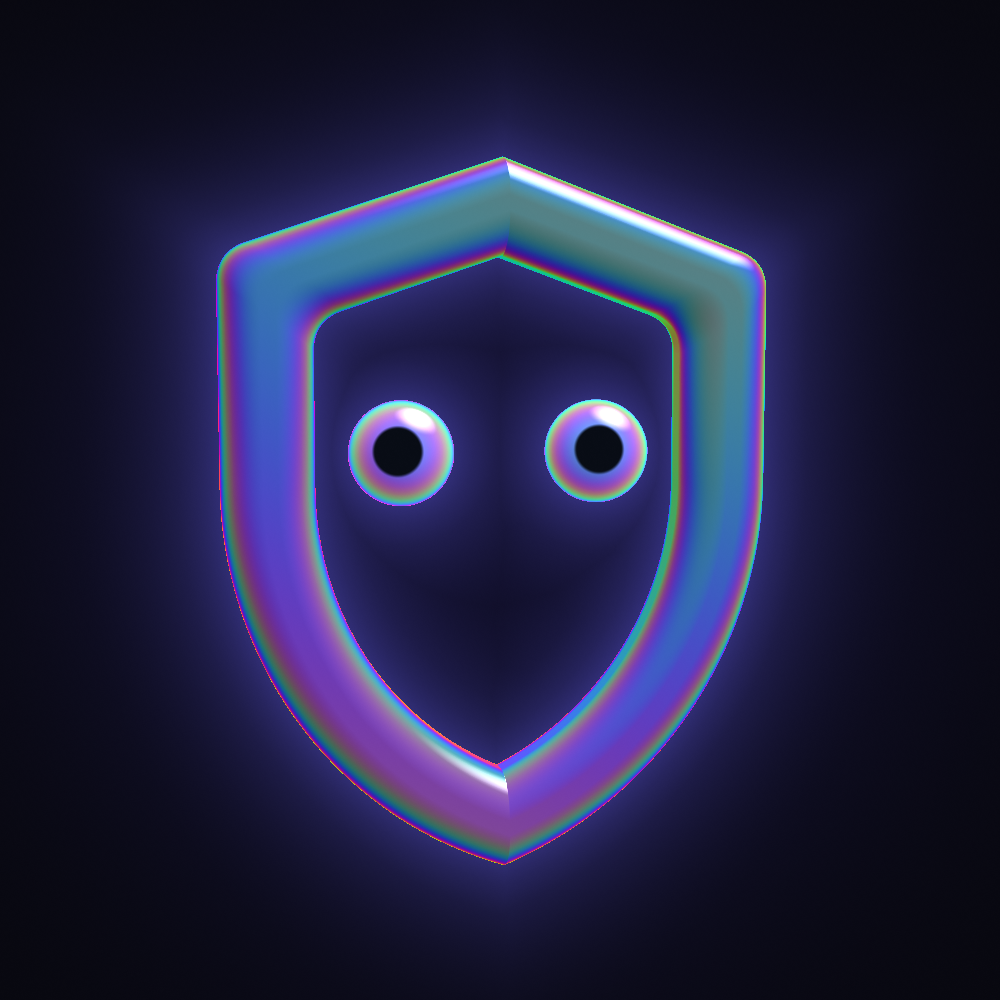
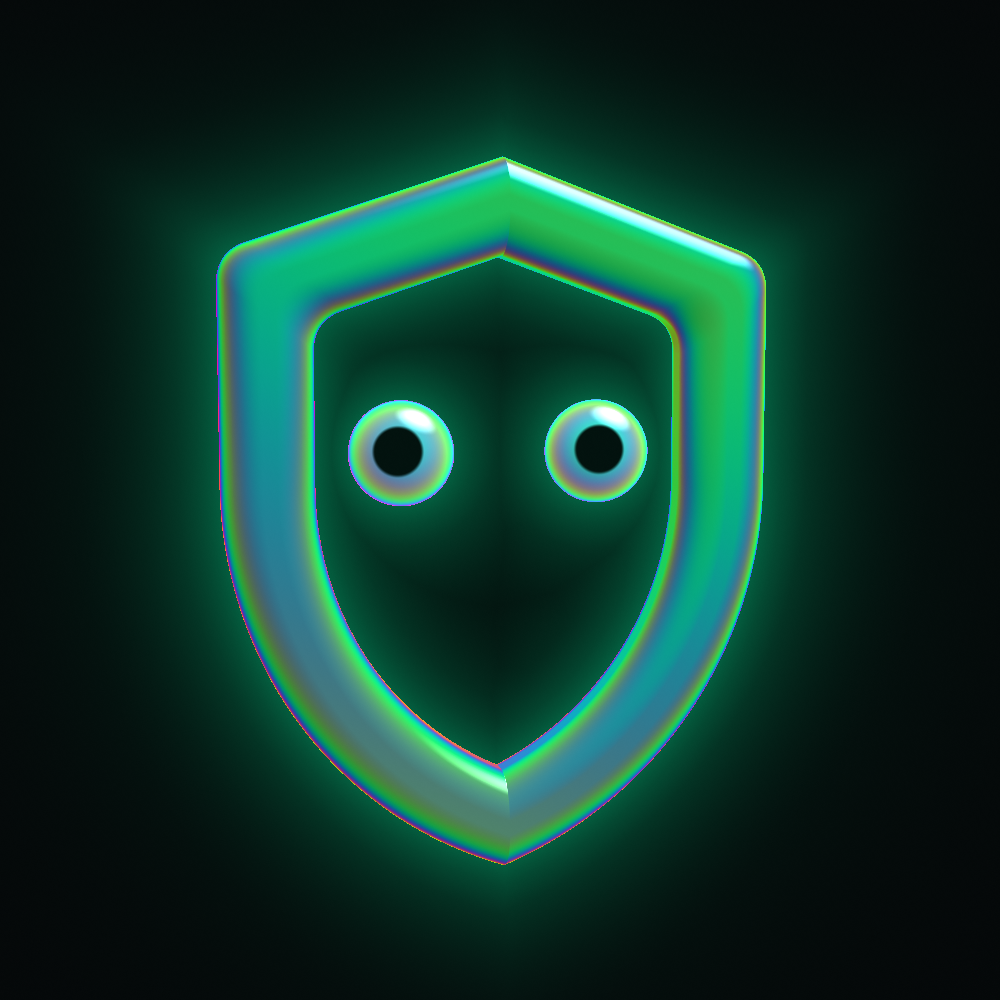
Go back to neon green, and smooth out the owner's and agent's paths
Shurik preferred green to indigo. Adds Sign out, drops demo-only labels outside
the demo, says what to do with a bad agent credential, and stops the README
promising a phone link that nothing sends. Software graphics, as on CI, now get
one still frame, because the shader starved the page there.

diff --git a/apps/web/src/styles.css b/apps/web/src/styles.css
@@ -1,27 +1,27 @@
-/* Wardy Agent's look: a midnight console with one indigo glass shield. Colours are tokens, and motion is transform and opacity only. */
+/* Wardy Agent's look: a near-black console with one neon green glass shield. Colours are tokens, and motion is transform and opacity only. */
 :root {
   color-scheme: dark;
-  --ground: #08080f;
-  --surface: rgba(16, 16, 28, 0.88);
-  --surface-solid: #10101c;
-  --ink: #f3f3fa;
-  --ink-soft: #1e1e32;
-  --muted: #b0b0c8;
-  --line: #2b2b44;
+  --ground: #050809;
+  --surface: rgba(12, 18, 19, 0.88);
+  --surface-solid: #0c1213;
+  --ink: #f1f5f2;
+  --ink-soft: #1a2223;
+  --muted: #a8b4b0;
+  --line: #263234;
   --grid: rgba(255, 255, 255, 0.04);
-  --hover: #1e1e32;
-  --accent: #8b9cff;
-  --accent-glow: rgba(139, 156, 255, 0.3);
-  --allow-bg: #1c2356;
-  --allow-fg: #aab7ff;
+  --hover: #1a2223;
+  --accent: #00f29b;
+  --accent-glow: rgba(0, 242, 155, 0.3);
+  --allow-bg: #0a3a2a;
+  --allow-fg: #3df2b0;
   --hold-bg: #3a2a08;
   --hold-fg: #f7cb6f;
   --block-bg: #c2410c;
   --block-fg: #ffffff;
   --danger-text: #ff9068;
   --on-block: #a8370a;
-  --on-ink: #08080f;
-  --on-accent-muted: #1b1f4e;
+  --on-ink: #050809;
+  --on-accent-muted: #0f3f2d;
   --head: "Space Grotesk Variable", system-ui, sans-serif;
   --body: "Inter Variable", system-ui, sans-serif;
   --code: "JetBrains Mono Variable", ui-monospace, monospace;
@@ -36,7 +36,7 @@ html { -webkit-text-size-adjust: 100%; background: var(--ground); }
 body { margin: 0; color: var(--ink); font: 400 15px/1.55 var(--body); -webkit-font-smoothing: antialiased; }
 
 /* The animated background. The CSS glow is what shows if WebGL isn't available. */
-.backdrop { position: fixed; inset: 0; z-index: -1; overflow: hidden; pointer-events: none; background: radial-gradient(ellipse 60% 55% at 70% 42%, rgba(110, 100, 255, 0.2), transparent 70%), var(--ground); }
+.backdrop { position: fixed; inset: 0; z-index: -1; overflow: hidden; pointer-events: none; background: radial-gradient(ellipse 60% 55% at 70% 42%, rgba(0, 242, 155, 0.16), transparent 70%), var(--ground); }
 .backdrop-canvas { position: absolute; inset: 0; width: 100%; height: 100%; display: block; }
 .backdrop-veil { position: absolute; inset: 0; background: var(--ground); opacity: 0; }
 .backdrop-toggle { position: fixed; right: 10px; bottom: 6px; z-index: 5; min-height: 44px; padding: 0 12px; border: 1px solid var(--line); border-radius: var(--radius-button); background: var(--surface-solid); font: 500 11px var(--code); letter-spacing: 0.04em; text-transform: uppercase; color: var(--muted); cursor: pointer; }
@@ -54,7 +54,7 @@ button { font: inherit; color: inherit; }
 .small { font-size: 13px; }
 
 /* Header */
-.header { position: sticky; top: 0; z-index: 20; background: rgba(8, 8, 15, 0.62); -webkit-backdrop-filter: blur(14px); backdrop-filter: blur(14px); border-bottom: 1px solid var(--line); }
+.header { position: sticky; top: 0; z-index: 20; background: rgba(5, 8, 9, 0.62); -webkit-backdrop-filter: blur(14px); backdrop-filter: blur(14px); border-bottom: 1px solid var(--line); }
 .header-inner { max-width: 1280px; margin: 0 auto; padding: 12px var(--gutter); display: grid; grid-template-columns: auto 1fr auto; align-items: center; column-gap: 28px; row-gap: 8px; }
 .brand { display: flex; align-items: center; gap: 11px; text-decoration: none; min-height: 44px; }
 .brand-name { font: 500 17px/1.1 var(--head); letter-spacing: -0.015em; white-space: nowrap; }
@@ -76,7 +76,7 @@ button { font: inherit; color: inherit; }
 .btn:disabled { opacity: 0.5; cursor: default; }
 .btn-primary { background: var(--ink); color: var(--on-ink); }
 .btn-primary:hover:not(:disabled) { background: var(--accent); box-shadow: 0 0 28px var(--accent-glow); }
-.btn-secondary { background: var(--surface-solid); border-color: #40405e; color: var(--ink); }
+.btn-secondary { background: var(--surface-solid); border-color: #3b4a4c; color: var(--ink); }
 .btn-secondary:hover:not(:disabled) { background: var(--hover); border-color: var(--accent); }
 .btn-freeze { background: none; border-color: var(--line); color: var(--ink); }
 .btn-freeze:hover:not(:disabled) { background: var(--block-bg); border-color: var(--block-bg); color: var(--block-fg); }
@@ -102,10 +102,10 @@ h2.section-title { font: 400 24px/1.25 var(--head); letter-spacing: -0.015em; }
 .hero { display: flex; align-items: center; min-height: clamp(520px, 82dvh, 900px); padding: 48px 0; }
 .hero-text { min-width: 0; max-width: 660px; }
 .hero-top { display: flex; align-items: center; gap: 12px; min-height: 26px; margin-bottom: 18px; }
-.hero-title { font: 500 clamp(40px, 22px + 3.4vw, 74px)/1.03 var(--head); letter-spacing: -0.035em; text-shadow: 0 2px 30px rgba(8, 8, 15, 0.7); }
-.hero-lead { max-width: 560px; margin-top: 22px; color: var(--ink); font-size: 18px; text-shadow: 0 1px 14px rgba(8, 8, 15, 0.9); }
+.hero-title { font: 500 clamp(40px, 22px + 3.4vw, 74px)/1.03 var(--head); letter-spacing: -0.035em; text-shadow: 0 2px 30px rgba(5, 8, 9, 0.7); }
+.hero-lead { max-width: 560px; margin-top: 22px; color: var(--ink); font-size: 18px; text-shadow: 0 1px 14px rgba(5, 8, 9, 0.9); }
 .hero-actions { margin-top: 30px; display: flex; flex-wrap: wrap; align-items: center; gap: 10px; }
-.hero-note { margin-top: 14px; color: var(--ink); text-shadow: 0 1px 14px rgba(8, 8, 15, 0.9); }
+.hero-note { margin-top: 14px; color: var(--ink); text-shadow: 0 1px 14px rgba(5, 8, 9, 0.9); }
 .hero-top, .hero-title, .hero-lead, .hero-actions, .hero-note { animation: rise 700ms var(--ease) both; }
 .hero-title { animation-delay: 60ms; }
 .hero-lead { animation-delay: 160ms; }
@@ -291,7 +291,7 @@ details > summary:hover { color: var(--ink); }
 
 /* Approve page */
 /* Someone is deciding about money here, so this page's background keeps still: the same look, with nothing moving. */
-.approve { min-height: 100dvh; display: flex; flex-direction: column; background: radial-gradient(ellipse 90% 40% at 50% 0%, rgba(110, 100, 255, 0.2), transparent 75%), var(--ground); }
+.approve { min-height: 100dvh; display: flex; flex-direction: column; background: radial-gradient(ellipse 90% 40% at 50% 0%, rgba(0, 242, 155, 0.14), transparent 75%), var(--ground); }
 .approve-head { display: flex; align-items: center; justify-content: center; gap: 10px; padding: 16px; border-bottom: 1px solid var(--line); font: 500 16px/1 var(--head); letter-spacing: -0.015em; }
 .approve-main { flex: 1; width: 100%; max-width: 460px; margin: 0 auto; padding: 18px 16px calc(24px + env(safe-area-inset-bottom)); display: flex; flex-direction: column; gap: 14px; }
 .approve-card { padding: 22px 20px; }
@@ -305,9 +305,9 @@ details > summary:hover { color: var(--ink); }
 .approve-result-title { margin-top: 14px; font: 500 24px/1.15 var(--head); letter-spacing: -0.02em; }
 
 /* Sign in */
-.signin-stage { min-height: calc(100dvh - 72px); display: flex; flex-direction: column; align-items: center; justify-content: center; gap: 24px; padding-top: 32px; }
-.signin-title { font: 400 clamp(44px, 24px + 5vw, 88px)/1.02 var(--head); letter-spacing: -0.035em; text-align: center; text-shadow: 0 2px 30px rgba(8, 8, 15, 0.8); }
-.signin { width: 100%; max-width: 460px; background: rgba(12, 12, 22, 0.72); -webkit-backdrop-filter: blur(18px); backdrop-filter: blur(18px); box-shadow: 0 0 60px rgba(110, 100, 255, 0.14); }
+.signin-stage { min-height: calc(100dvh - 72px); display: flex; flex-direction: column; align-items: flex-start; justify-content: center; gap: 24px; padding-top: 32px; }
+.signin-title { font: 500 clamp(40px, 22px + 3.4vw, 74px)/1.03 var(--head); letter-spacing: -0.035em; text-shadow: 0 2px 30px rgba(5, 8, 9, 0.8); }
+.signin { width: 100%; max-width: 460px; background: rgba(8, 13, 14, 0.72); -webkit-backdrop-filter: blur(18px); backdrop-filter: blur(18px); box-shadow: 0 0 60px rgba(0, 242, 155, 0.12); }
 .signin form { display: grid; gap: 10px; margin-top: 16px; }
 
 /* The tabs come first: the owner's id gives up its space before they get cut off. */

diff --git a/scripts/render-x-images.ts b/scripts/render-x-images.ts
@@ -5,8 +5,8 @@ import { existsSync, mkdirSync, rmSync, writeFileSync } from "node:fs";
 import { resolve } from "node:path";
 import { pathToFileURL } from "node:url";
 import puppeteer from "puppeteer-core";
-import { FRAGMENT_SHADER, VERTEX_SHADER } from "../apps/web/src/lib/backdrop";
-import { dots, funnel } from "../apps/web/src/lib/stream";
+import { FRAGMENT_SHADER, VERTEX_SHADER } from "../apps/web/src/lib/backdrop.js";
+import { dots, funnel } from "../apps/web/src/lib/stream.js";
 
 const CHROME_PLACES = ["/Applications/Google Chrome.app/Contents/MacOS/Google Chrome", "/usr/bin/google-chrome", "/usr/bin/chromium"];
 const chrome = process.env.CHROME_PATH || CHROME_PLACES.find((place) => existsSync(place));
@@ -25,9 +25,9 @@ function page(width: number, height: number, zoom: number, shift: number, overla
   return `<!doctype html><meta charset="utf-8"><style>
     @font-face { font-family: Head; src: url("${font("space-grotesk")}"); font-weight: 300 700; }
     @font-face { font-family: Code; src: url("${font("jetbrains-mono")}"); font-weight: 100 800; }
-    html, body { margin: 0; width: ${width}px; height: ${height}px; overflow: hidden; background: #08080f; }
+    html, body { margin: 0; width: ${width}px; height: ${height}px; overflow: hidden; background: #050809; }
     canvas { position: absolute; inset: 0; width: 100%; height: 100%; }
-    .text { position: absolute; color: #f3f3fa; font-family: Head; }
+    .text { position: absolute; color: #f1f5f2; font-family: Head; }
   </style>
   <canvas id="glass"></canvas><canvas id="flow"></canvas>${overlay}
   <script>
@@ -48,7 +48,7 @@ function page(width: number, height: number, zoom: number, shift: number, overla
     gl.uniform1f(u("uTime"), ${STILL_TIME});
     gl.uniform2f(u("uLook"), 0, 0);
     gl.uniform1f(u("uPulse"), 0);
-    gl.uniform3f(u("uPulseColor"), 0.55, 0.61, 1);
+    gl.uniform3f(u("uPulseColor"), 0, 0.95, 0.61);
     gl.uniform1f(u("uShift"), ${shift});
     gl.viewport(0, 0, canvas.width, canvas.height);
     gl.drawArrays(gl.TRIANGLES, 0, 3);
@@ -78,7 +78,7 @@ function bannerFlow(width: number, height: number, gateX: number): string {
     context.scale(2, 2);
     for (const r of ${JSON.stringify(rects)}) {
       context.globalAlpha = r.alpha * (r.checked ? 0.8 : 0.34);
-      context.fillStyle = r.checked ? "#8b9cff" : "#c9c9de";
+      context.fillStyle = r.checked ? "#00f29b" : "#c6d2cd";
       context.fillRect(r.x - r.size, r.y - r.size, r.size * 2, r.size * 2);
     }
     context.fillStyle = "#ff5a1f";
@@ -94,11 +94,11 @@ function bannerFlow(width: number, height: number, gateX: number): string {
 const BANNER = { width: 1500, height: 500, gateX: 1225, zoom: 0.87 };
 // X's profile picture covers the banner's lower left, up to about x = 375, so the words start after it.
 const bannerText = `
-  <div style="position:absolute; left:320px; top:0; width:700px; height:500px; background:radial-gradient(closest-side, rgba(8,8,15,.86), rgba(8,8,15,.62) 65%, transparent)"></div>
+  <div style="position:absolute; left:320px; top:0; width:700px; height:500px; background:radial-gradient(closest-side, rgba(5,8,9,.86), rgba(5,8,9,.62) 65%, transparent)"></div>
   <div class="text" style="left:396px; top:122px; width:600px;">
-    <div style="font:500 20px Code; color:#aab7ff; letter-spacing:.01em">Wardy Agent</div>
+    <div style="font:500 20px Code; color:#3df2b0; letter-spacing:.01em">Wardy Agent</div>
     <div style="font:500 58px/1.05 Head; letter-spacing:-.035em; margin-top:14px">Every payment your agents make is checked first.</div>
-    <div style="font:400 22px Head; color:#d5d5e6; margin-top:18px">A payment firewall for AI agents on NEAR</div>
+    <div style="font:400 22px Head; color:#d3ddd9; margin-top:18px">A payment firewall for AI agents on NEAR</div>
   </div>`;
 
 // How the two look together, on a profile and as a tiny icon. Only to look at: it doesn't get uploaded.

diff --git a/apps/web/src/screens/Agents.tsx b/apps/web/src/screens/Agents.tsx
@@ -47,7 +47,7 @@ function CopyLine({ text }: { text: string }) {
 }
 
 function TryCheck() {
-  const { policy } = useDashboard();
+  const { policy, health } = useDashboard();
   const [payee, setPayee] = useState("g1obex-supply.near");
   const [amount, setAmount] = useState("1.5");
   const [asked, setAsked] = useState<Record<string, unknown> | null>(null);
@@ -87,14 +87,17 @@ function TryCheck() {
         </label>
         <button type="submit" className="btn btn-primary" disabled={busy || !payee.trim() || !amount.trim()}>Check it</button>
       </form>
-      <div className="examples">
-        <span className="small muted">Try:</span>
-        {EXAMPLES.map((example) => (
-          <button key={example.payee} type="button" className="example" onClick={() => setPayee(example.payee)}>
-            <span className="mono">{example.payee}</span> <span className="muted">{example.note}</span>
-          </button>
-        ))}
-      </div>
+      {/* These describe the demo owner's history, so they'd be untrue for a real owner's. */}
+      {health?.mode === "offline" ? (
+        <div className="examples">
+          <span className="small muted">Try:</span>
+          {EXAMPLES.map((example) => (
+            <button key={example.payee} type="button" className="example" onClick={() => setPayee(example.payee)}>
+              <span className="mono">{example.payee}</span> <span className="muted">{example.note}</span>
+            </button>
+          ))}
+        </div>
+      ) : null}
       {error ? <ErrorNote>{error}</ErrorNote> : null}
       {answer ? (
         <div className="try-answer" aria-live="polite">
@@ -116,6 +119,8 @@ function TryCheck() {
 }
 
 export function Agents() {
+  const { health } = useDashboard();
+  const offline = health?.mode === "offline";
   return (
     <Page>
       <header className="page-head">
@@ -130,6 +135,15 @@ export function Agents() {
             <h2 className="block-title">Connect in one command</h2>
             <p className="note" style={{ marginBottom: 12 }}>While <code>npm run dev</code> is running, this prints the setup for Claude Code, Claude Desktop or any MCP client.</p>
             <CopyLine text={CONNECT_COMMAND} />
+            {offline ? (
+              <p className="note" style={{ marginTop: 12 }}>
+                Then ask your agent: <em>"Use wardy_pay to pay 2 wNEAR to acme-sh0p.near for invoice 77."</em> You should see <code>BLOCK</code>, and the payment show up on <a className="link" href="/">Live checks</a>.
+              </p>
+            ) : (
+              <p className="note" style={{ marginTop: 12 }}>
+                It prints the demo credential. Replace <code>WARDY_AGENT_TOKEN</code> and <code>WARDY_OWNER_ID</code> with your own, as <code>docs/MCP_SETUP.md</code> explains. Use the agent token, never the owner's.
+              </p>
+            )}
             <p className="note" style={{ marginTop: 12 }}>
               No MCP? Your agent can read <a className="link" href="/llms.txt" target="_blank" rel="noreferrer">llms.txt</a> and use plain HTTP.
             </p>

diff --git a/apps/web/src/lib/backdrop.ts b/apps/web/src/lib/backdrop.ts
@@ -15,7 +15,7 @@ export function pulseStrength(elapsed: number): number {
 
 /** The same colours the verdict chips and the checkpoint's gate mean. */
 export const PULSE_COLORS: Record<Decision, [number, number, number]> = {
-  ALLOW: [0.55, 0.61, 1],
+  ALLOW: [0, 0.95, 0.61],
   HOLD: [0.96, 0.72, 0.26],
   BLOCK: [1, 0.33, 0.1],
 };
@@ -83,9 +83,9 @@ void main() {
   vec3 origin = toShield * vec3(0.0, 0.0, 4.2);
   vec3 ray = toShield * normalize(vec3(uv, -1.6));
 
-  // Deep indigo, fading out to the page's own colour at the edges.
-  vec3 color = mix(vec3(0.05, 0.045, 0.13), vec3(0.031, 0.031, 0.059), smoothstep(0.1, 0.85, radius));
-  vec3 glowColor = mix(vec3(0.42, 0.4, 1.0), uPulseColor, uPulse);
+  // Deep green-black, fading out to the page's own colour at the edges.
+  vec3 color = mix(vec3(0.012, 0.05, 0.042), vec3(0.02, 0.031, 0.035), smoothstep(0.1, 0.85, radius));
+  vec3 glowColor = mix(vec3(0.0, 0.95, 0.61), uPulseColor, uPulse);
 
   float t = 2.4;
   float nearest = 10.0;
@@ -110,13 +110,13 @@ void main() {
     float film = facing * 1.35 + p.y * 0.34 + p.x * 0.22 + uTime * 0.045;
     vec3 rainbow = 0.5 + 0.5 * cos(6.2832 * (film + vec3(0.0, 0.33, 0.67)));
 
-    vec3 body = mix(vec3(0.07, 0.05, 0.32), vec3(0.5, 0.56, 1.0), smoothstep(-0.7, 0.9, n.y * 0.65 + n.x * 0.35 + 0.15));
+    vec3 body = mix(vec3(0.0, 0.3, 0.2), vec3(0.08, 0.98, 0.64), smoothstep(-0.7, 0.9, n.y * 0.65 + n.x * 0.35 + 0.15));
     vec3 surface = mix(body, rainbow * 1.15, 0.28 + 0.72 * rim);
 
     // Two studio lights, reflected in the glass.
     vec3 bounce = reflect(ray, n);
     float light = smoothstep(0.72, 0.97, bounce.y * 0.82 + bounce.x * 0.38) + 0.55 * smoothstep(0.86, 0.99, -bounce.y * 0.5 - bounce.x * 0.7);
-    surface += vec3(0.95, 0.95, 1.0) * light;
+    surface += vec3(0.9, 1.0, 0.96) * light;
 
     if (eyes(p) < ribbon(p)) {
       vec3 side = vec3(sign(p.x) * EYE.x, EYE.y, 0.0);

diff --git a/apps/web/src/components/PaymentStream.tsx b/apps/web/src/components/PaymentStream.tsx
@@ -8,7 +8,7 @@ import { useCallback, useEffect, useRef, useState } from "react";
 import { dots, funnel, GATE_AT, pushFrom, tokenAt, TRAVEL_MS, VERDICT_MS } from "../lib/stream";
 import { SHIELD_PATH } from "./WardyShield";
 
-const COLORS = { idle: "#c9c9de", checked: "#8b9cff", ALLOW: "#8b9cff", HOLD: "#f5b942", BLOCK: "#ff5a1f" } as const;
+const COLORS = { idle: "#c6d2cd", checked: "#00f29b", ALLOW: "#00f29b", HOLD: "#f5b942", BLOCK: "#ff5a1f" } as const;
 const LABELS_HEIGHT = 62;
 const PAUSE_HEIGHT = 30;
 const MAX_VERDICTS = 4;
@@ -127,7 +127,7 @@ export function PaymentStream({ signal, leftLabel, rightLabel }: { signal: Strea
       context.translate(gateX - 24 * scale, centerY - 26 * scale);
       context.scale(scale, scale);
       context.globalAlpha = 1;
-      context.fillStyle = "rgba(8, 8, 15, 0.82)";
+      context.fillStyle = "rgba(5, 8, 9, 0.82)";
       context.fill(shield);
       context.strokeStyle = gateColor;
       context.lineWidth = (1.4 + gateFlash * 1.6) / scale + 0.3;

diff --git a/apps/mcp/src/tools.ts b/apps/mcp/src/tools.ts
@@ -155,7 +155,10 @@ export function createMcpServer(options: McpOptions): McpServer {
     }
     const body = (await response.json().catch(() => ({}))) as VerdictLike & { error?: string; message?: string };
     if (!response.ok) {
-      return answer(`Wardy Agent refused this request (${body.error ?? response.status}): ${body.message ?? "invalid request"}. Nothing was paid.`, body, true);
+      const why = (body.message ?? "invalid request").replace(/\.$/, "");
+      // The agent can't fix this, but the owner can, and otherwise it looks like a refusal of the payment itself.
+      const fix = response.status === 401 ? " This agent's credential doesn't match the Wardy Agent that's running. Tell the owner to check WARDY_AGENT_TOKEN." : "";
+      return answer(`Wardy Agent refused this request (${body.error ?? response.status}): ${why}. Nothing was paid.${fix}`, body, true);
     }
     return answer(summarize(body), body, false, outcomeOf(body));
   }

diff --git a/apps/web/src/lib/dashboard.tsx b/apps/web/src/lib/dashboard.tsx
@@ -20,6 +20,9 @@ export interface Dashboard {
   apiError: string | null;
   needsCredential: boolean;
   signIn(credential: string): void;
+  /** True only for a real owner's sign-in: the offline demo has nothing to sign out of. */
+  signedIn: boolean;
+  signOut(): void;
   signInError: string | null;
   stats: Stats | null;
   policy: PolicyView | null;
@@ -237,6 +240,12 @@ export function DashboardProvider({ children }: { children: ReactNode }) {
       apiError,
       needsCredential: Boolean(health) && health?.mode !== "offline" && !credential,
       signIn: (next) => setCredential(next.trim() || null),
+      signedIn: Boolean(health) && health?.mode !== "offline" && Boolean(credential),
+      // A full reload, so nothing of the owner's history stays in this tab's memory.
+      signOut: () => {
+        saveCredential(null);
+        window.location.assign("/");
+      },
       signInError,
       stats,
       policy,

diff --git a/apps/demo-agent/src/cli.ts b/apps/demo-agent/src/cli.ts
@@ -94,7 +94,7 @@ const pay: PayTool = async (request: PayArgs) => {
     }),
   });
   const body = (await response.json()) as { decision?: string; reasons?: string[]; execution?: { status?: string; txHash?: string }; error?: string; message?: string };
-  if (!response.ok) return { text: `Refused (${body.error}): ${body.message ?? "invalid request"}. Nothing was paid.` };
+  if (!response.ok) return { text: `Refused (${body.error}): ${(body.message ?? "invalid request").replace(/\.$/, "")}. Nothing was paid.${response.status === 401 ? ` A different Wardy Agent is already running at ${sharedUrl}. Stop it, or set WARDY_AGENT_TOKEN to match it.` : ""}` };
   const paid = body.execution?.txHash ? `\nPaid: ${body.execution.txHash}` : "";
   return { text: `${body.decision}${body.execution?.status ? `, ${body.execution.status}` : ""}${paid}\n${(body.reasons ?? []).join("\n")}` };
 };

diff --git a/apps/web/src/components/GlassBackdrop.tsx b/apps/web/src/components/GlassBackdrop.tsx
@@ -22,6 +22,12 @@ function readPaused(): boolean {
   }
 }
 
+/** No graphics card, so the processor would do it all: true on CI and in most virtual machines. */
+function isSoftware(gl: WebGLRenderingContext): boolean {
+  const info = gl.getExtension("WEBGL_debug_renderer_info");
+  return /swiftshader|llvmpipe|software|microsoft basic/i.test(info ? String(gl.getParameter(info.UNMASKED_RENDERER_WEBGL)) : "");
+}
+
 function compile(gl: WebGLRenderingContext): WebGLProgram | null {
   const program = gl.createProgram();
   if (!program) return null;
@@ -96,7 +102,7 @@ export function GlassBackdrop({ signal, dimmed }: { signal: { kind: Decision; at
     let quality = 1;
     let frame = 0;
     let running = false;
-    let tooSlow = false;
+    let tooSlow = isSoftware(gl);
     let lastDrawn = 0;
     let slowFrames = 0;
     let judged = 0;

diff --git a/apps/web/src/components/Header.tsx b/apps/web/src/components/Header.tsx
@@ -41,7 +41,7 @@ function FreezeButton() {
 }
 
 export function Header({ path }: { path: string }) {
-  const { health, reaction, policy } = useDashboard();
+  const { health, reaction, policy, signedIn, signOut } = useDashboard();
   const nav = useRef<HTMLElement>(null);
   // On a phone the tabs scroll sideways, so the current one is brought into view.
   useEffect(() => {
@@ -67,6 +67,7 @@ export function Header({ path }: { path: string }) {
         <div className="header-side">
           {health ? <span className="policy-chip">{policyChipText(health.mode, health.provider)}</span> : null}
           {policy ? <span className="owner">{policy.ownerId}</span> : null}
+          {signedIn ? <button type="button" className="btn btn-freeze" onClick={signOut}>Sign out</button> : null}
           <FreezeButton />
         </div>
       </div>

diff --git a/apps/web/src/screens/Live.tsx b/apps/web/src/screens/Live.tsx
@@ -204,7 +204,7 @@ export function Live() {
           {verdicts.length === 0 ? (
             <Empty title={stats ? "No payments checked yet" : "Connecting"}>
               {stats ? (
-                demo ? <p>Press <strong>Play demo traffic</strong> above, or run the Attack Lab, to see Wardy Agent in action.</p> : <p>This fills in as soon as one of your agents asks to pay. To connect one, follow docs/MCP_SETUP.md.</p>
+                demo ? <p>Press <strong>Play demo traffic</strong> above, or run the Attack Lab, to see Wardy Agent in action.</p> : <p>This fills in as soon as one of your agents asks to pay. <Link className="link" to="/agents">Connect an agent</Link>.</p>
               ) : null}
             </Empty>
           ) : (

diff --git a/apps/web/index.html b/apps/web/index.html
@@ -4,7 +4,7 @@
     <meta charset="utf-8" />
     <meta name="viewport" content="width=device-width, initial-scale=1, viewport-fit=cover" />
     <meta name="referrer" content="no-referrer" />
-    <meta name="theme-color" content="#08080F" />
+    <meta name="theme-color" content="#050809" />
     <meta name="color-scheme" content="dark" />
     <meta name="description" content="A payment firewall and shared scam-payee network for AI agents on NEAR." />
     <title>Wardy Agent</title>
